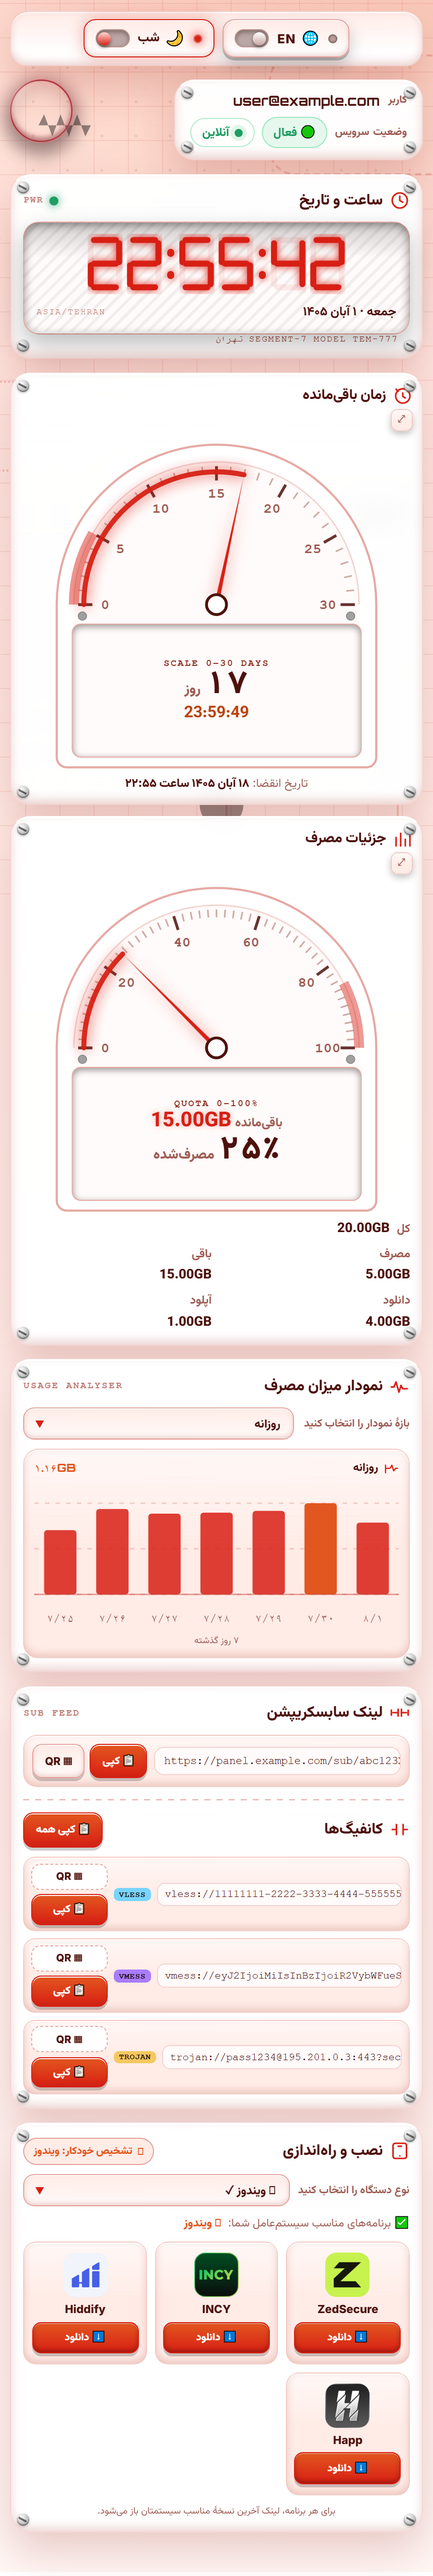
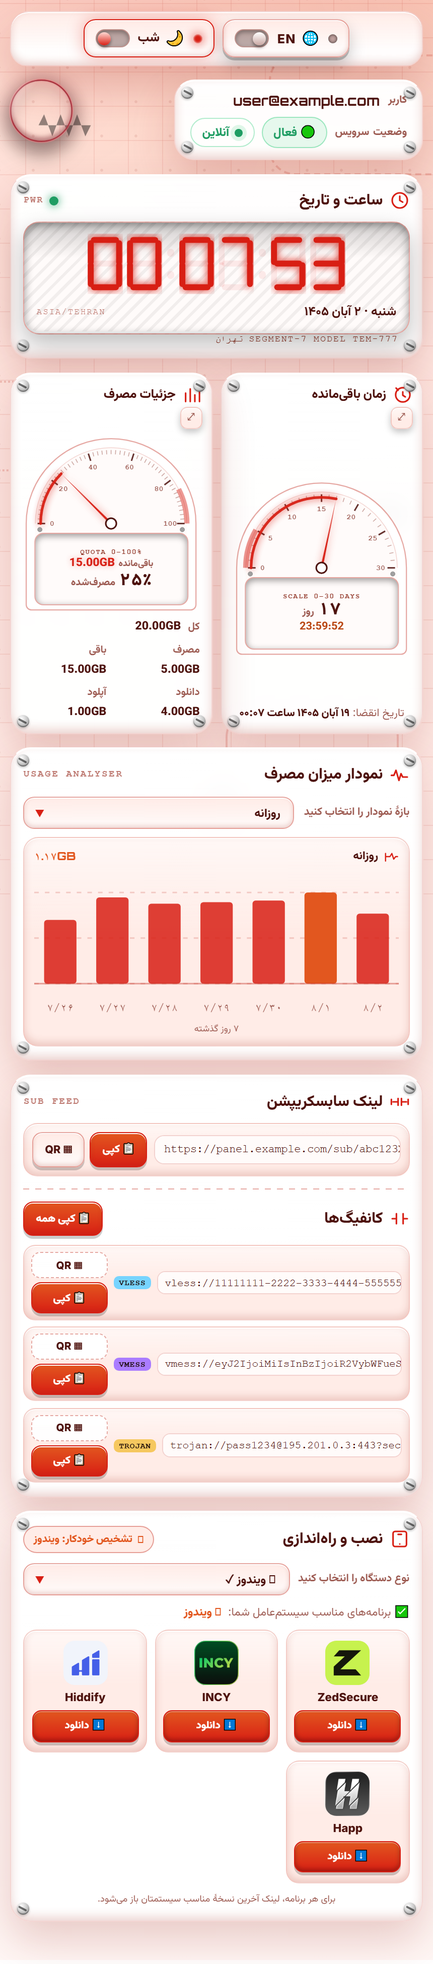
Speed, Electronics: keep the two dials side by side at every width
The remaining-time and usage cards were stacked below 560px. That was a
readability fix, but the owner wants the original side-by-side pair and only
asked for a more legible font, so the collapse is gone and the type keeps the
container-driven sizing that fits a narrow dial.

Speed's five usage figures now drop to two per row inside a narrow card, where
three tracks left 42px each and the values spilled out of their cells.

A CI guard fails if either theme ever stacks the dials again.

🤖 Generated with Codebuff

diff --git a/pages/speed/index.html b/pages/speed/index.html
@@ -385,9 +385,10 @@
       align-items: stretch;
     }
     @media (min-width: 760px) { .cluster { gap: 1rem; } }
-    /* two half-width dials on a 390px phone leave ~160px per dial: the readouts
-       inside them can never be read at that size, so phones get one per row */
-    @media (max-width: 560px) { .cluster { grid-template-columns: minmax(0, 1fr); gap: 0.7rem; } }
+    /* the two dials stay side by side at every width: every label is measured
+       against its card, so a narrow card shrinks as a whole instead of spilling
+       over the dial — phones only lose a little of the gutter */
+    @media (max-width: 560px) { .cluster { gap: 0.45rem; } }
 
     .gauge-card {
       position: relative;
@@ -511,13 +512,13 @@
     }
     .readout-unit {
       font-size: clamp(0.6rem, 2.6vw, 0.78rem);
-      font-size: clamp(0.54rem, 5.4cqw, 0.8rem); font-weight: 700; color: var(--muted);
+      font-size: clamp(0.62rem, 5.4cqw, 0.8rem); font-weight: 700; color: var(--muted);
       text-transform: uppercase; letter-spacing: 0.04em; line-height: 1.2;
       text-shadow: 0 0 2px var(--bg), 0 0 4px var(--bg);
     }
     .readout-sub {
       font-size: clamp(0.72rem, 3.4vw, 1rem);
-      font-family: var(--font-read); font-size: clamp(0.62rem, 6.6cqw, 1.02rem);
+      font-family: var(--font-read); font-size: clamp(0.68rem, 6.6cqw, 1.02rem);
       font-weight: 700; color: var(--accent-ink); margin-top: 0.2rem;
       font-variant-numeric: tabular-nums; letter-spacing: 0.02em; line-height: 1.2;
       text-shadow: 0 0 2px var(--bg), 0 0 4px var(--bg);
@@ -538,14 +539,14 @@
     }
     .gauge-remained-cap {
       font-size: clamp(0.56rem, 2.4vw, 0.7rem);
-      font-size: clamp(0.46rem, 4.3cqw, 0.7rem); font-weight: 700; letter-spacing: 0.02em;
+      font-size: clamp(0.56rem, 4.3cqw, 0.7rem); font-weight: 700; letter-spacing: 0.02em;
       color: var(--muted);
       text-shadow: 0 0 2px var(--bg), 0 0 4px var(--bg);
     }
     .gauge-remained {
       direction: ltr;
       font-size: clamp(0.66rem, 3.4vw, 0.98rem);
-      font-family: var(--font-read); font-size: clamp(0.56rem, 5.6cqw, 1.2rem);
+      font-family: var(--font-read); font-size: clamp(0.66rem, 5.6cqw, 1.2rem);
       font-weight: 800; color: var(--bad-ink); line-height: 1.15;
       font-variant-numeric: tabular-nums; letter-spacing: 0.01em;
       text-shadow: 0 0 2px var(--bg), 0 0 6px rgba(255, 77, 94, 0.32);
@@ -626,6 +627,12 @@
     .ud { grid-column: span 2; }
     .ud:nth-child(4), .ud:nth-child(5) { grid-column: span 3; }
     @media (max-width: 560px) { .usage-details { gap: 0.35rem; } }
+    /* a phone card is ~160px wide: three figures per row leave ~42px each and
+       the values spill out of their cells, so narrow cards show two per row */
+    @container gauge-card (max-width: 260px) {
+      .usage-details { grid-template-columns: repeat(2, minmax(0, 1fr)); }
+      .ud, .ud:nth-child(4), .ud:nth-child(5) { grid-column: span 1; }
+    }
     .ud {
       border: 1px solid var(--line);
       background: linear-gradient(180deg, var(--gloss), transparent 60%), var(--panel-2);
@@ -633,10 +640,10 @@
       border-radius: 12px; padding: 0.4rem 0.35rem;
       display: flex; flex-direction: column; gap: 0.12rem; text-align: center; min-width: 0;
     }
-    .ud span { font-size: clamp(0.64rem, 2.7vw, 0.75rem); font-size: clamp(0.58rem, 3.3cqw, 0.76rem); font-weight: 700; color: var(--muted); line-height: 1.35; }
+    .ud span { font-size: clamp(0.64rem, 2.7vw, 0.75rem); font-size: clamp(0.64rem, 3.3cqw, 0.76rem); font-weight: 700; color: var(--muted); line-height: 1.35; }
     .ud b {
       font-family: var(--font-read); font-size: clamp(0.74rem, 3.1vw, 0.94rem);
-      font-size: clamp(0.68rem, 4.1cqw, 0.96rem);
+      font-size: clamp(0.72rem, 4.1cqw, 0.96rem);
       font-weight: 800; color: var(--txt); line-height: 1.3;
       font-variant-numeric: tabular-nums; letter-spacing: 0.01em;
       /* the value is a unit token: never split "12.50 GB" in two */

diff --git a/pages/electronics/index.html b/pages/electronics/index.html
@@ -396,9 +396,10 @@
     /* ---------- analogue multimeter gauges (half-round dials, side by side) ---------- */
     .cluster { display: grid; grid-template-columns: repeat(2, minmax(0, 1fr)); gap: 0.6rem; align-items: stretch; }
     @media (min-width: 760px) { .cluster { gap: 1rem; } }
-    /* two half-width meters on a 390px phone leave ~150px each — far too little
-       for the printed window, so phones get one instrument per row */
-    @media (max-width: 560px) { .cluster { grid-template-columns: minmax(0, 1fr); gap: 0.7rem; } }
+    /* the two meters stay side by side at every width: the type inside a dial is
+       measured against the meter, so a narrow card shrinks as a whole instead of
+       spilling over the frame — phones only lose a little of the gutter */
+    @media (max-width: 560px) { .cluster { gap: 0.45rem; } }
 
     .gauge-card {
       display: flex; flex-direction: column;
@@ -462,9 +463,9 @@
       font-variant-numeric: tabular-nums; font-feature-settings: "tnum" 1;
       color: var(--txt);
     }
-    .readout-unit { font-size: clamp(0.55rem, 4.6cqw, 0.85rem); font-weight: 800; color: var(--muted); letter-spacing: 0.04em; }
+    .readout-unit { font-size: clamp(0.62rem, 4.6cqw, 0.85rem); font-weight: 800; color: var(--muted); letter-spacing: 0.04em; }
     .readout-sub {
-      font-family: var(--font-read); font-size: clamp(0.62rem, 5cqw, 1rem); font-weight: 700;
+      font-family: var(--font-read); font-size: clamp(0.68rem, 5cqw, 1rem); font-weight: 700;
       font-variant-numeric: tabular-nums; color: var(--accent-2-ink); direction: ltr; line-height: 1.2;
     }
     /* the blown-up meter is a bigger container, so the window already scales */
@@ -474,7 +475,7 @@
       display: flex; align-items: baseline; justify-content: center; gap: 0.22rem;
       max-width: 100%; white-space: nowrap;
     }
-    .meter-remained-cap { font-size: clamp(0.5rem, 3.8cqw, 0.76rem); font-weight: 800; letter-spacing: 0.03em; color: var(--muted); }
+    .meter-remained-cap { font-size: clamp(0.56rem, 3.8cqw, 0.76rem); font-weight: 800; letter-spacing: 0.03em; color: var(--muted); }
     .meter-remained-value {
       direction: ltr; font-family: var(--font-read); font-size: clamp(0.72rem, 6cqw, 1.3rem); font-weight: 800;
       font-variant-numeric: tabular-nums;
@@ -492,9 +493,9 @@
        the number at opposite edges, so "5.00GB" did not look like "مصرف" */
     .ud { display: flex; flex-direction: column; align-items: flex-start; gap: 0.1rem; min-width: 0; }
     .ud.wide { flex-direction: row; align-items: baseline; justify-content: flex-start; gap: 0.45rem; }
-    .ud span { font-size: clamp(0.6rem, 3cqw, 0.76rem); font-weight: 700; color: var(--muted); white-space: nowrap; overflow: hidden; text-overflow: ellipsis; }
+    .ud span { font-size: clamp(0.64rem, 3cqw, 0.76rem); font-weight: 700; color: var(--muted); white-space: nowrap; overflow: hidden; text-overflow: ellipsis; }
     .ud b {
-      font-family: var(--font-read); font-size: clamp(0.68rem, 3.4cqw, 0.9rem); font-weight: 800;
+      font-family: var(--font-read); font-size: clamp(0.72rem, 3.4cqw, 0.9rem); font-weight: 800;
       font-variant-numeric: tabular-nums; white-space: nowrap;
     }
     .ud.wide { grid-column: 1 / -1; }
